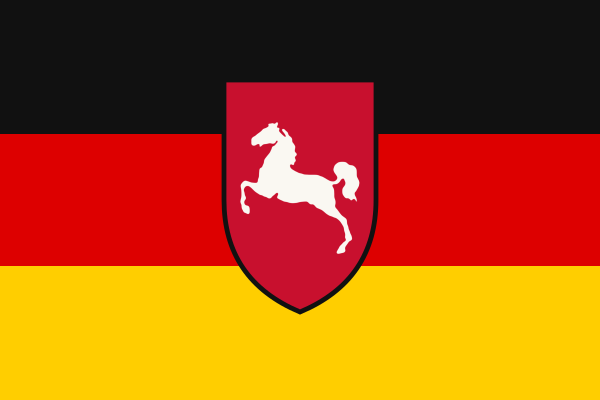
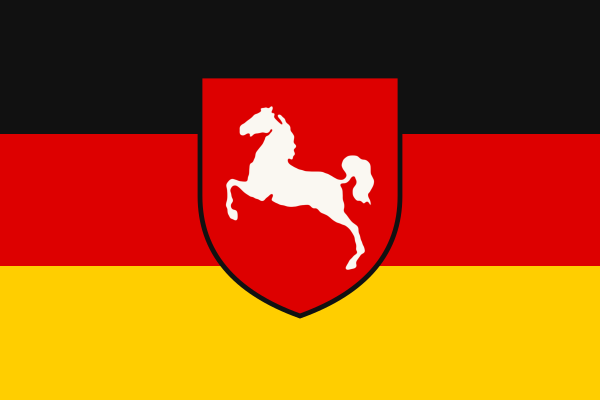
Saksonia zjednoczenie: krótsza tarcza w kolorze pasa
Claude-Session: https://claude.ai/code/session_01PNyJEgjZDVeUSFrp2WbnmN

Changed region(s): [[0.33, 0.18, 0.69, 0.81]]

diff --git a/gfx_koncepty/flagi_saksonia/generuj_flagi.py b/gfx_koncepty/flagi_saksonia/generuj_flagi.py
@@ -13,7 +13,7 @@ def kon(cx,cy,h,flip=False):
 def star(cx,cy,r,col):
     p=[f"{cx+(r if i%2==0 else r*.4)*math.cos(math.radians(-90+i*36)):.2f},{cy+(r if i%2==0 else r*.4)*math.sin(math.radians(-90+i*36)):.2f}" for i in range(10)]
     return f'<polygon points="{" ".join(p)}" fill="{col}"/>'
-SH='M112,40 L188,40 L188,100 Q188,140 150,156 Q112,140 112,100Z'
+SH='M100,38 L200,38 L200,98 Q200,140 150,158 Q100,140 100,98Z'
 
 F={
  # Królestwo (start, Welfowie): czerwień ze złotymi pasami u góry i dołu, biały koń saski
@@ -22,7 +22,7 @@ F={
  '2_republika': svg(f'<rect width="300" height="200" fill="{WHITE}"/><rect y="50" width="300" height="100" fill="{RED}"/>'+kon(150,100,92)),
  # Saksonia na czele zjednoczonych Niemiec: czerń-czerwień-złoto, tarcza z koniem saskim
  '3_zjednoczenie': svg(f'<rect width="300" height="67" fill="{BLACK}"/><rect y="67" width="300" height="66" fill="#dd0000"/><rect y="133" width="300" height="67" fill="#ffce00"/>'
-                      f'<path d="{SH}" fill="{RED}" stroke="{BLACK}" stroke-width="2.4"/>'+kon(150,94,66)),
+                      f'<path d="{SH}" fill="#dd0000" stroke="{BLACK}" stroke-width="2.4"/>'+kon(150,94,82)),
  # Saksonia rewolucyjna: czerwień, w lewym górnym rogu biała gwiazda, koń skacze ku niej (odbity)
  '4_rewolucja': svg(f'<rect width="300" height="200" fill="{RED}"/>'+kon(170,108,140)+star(46,42,24,WHITE)),
 }
